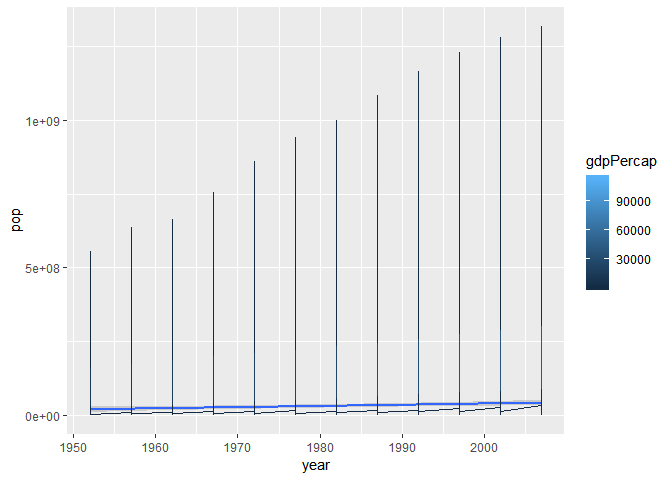
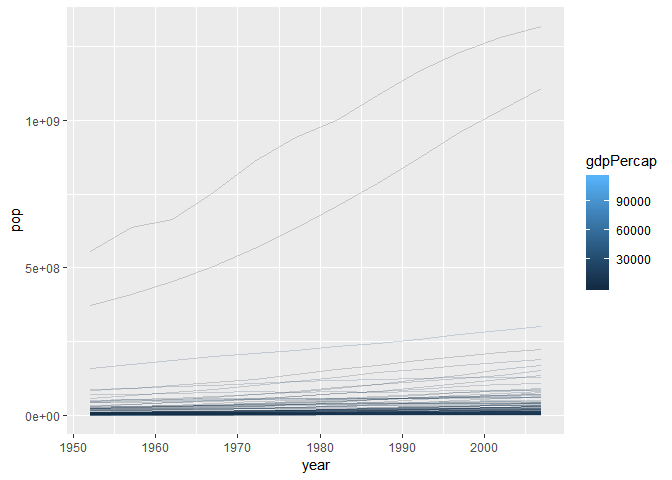
last

diff --git a/cm007/cm007-exercise.md b/cm007/cm007-exercise.md
@@ -369,12 +369,17 @@ ggplot(gapminder, aes(year, lifeExp))+
 
 ``` r
 ggplot(gapminder, aes(year, pop, color=gdpPercap))+
-  geom_smooth()+
-  geom_line()
+  geom_line(aes(group=country),alpha=0.2)
 ```
-
-    ## `geom_smooth()` using method = 'gam' and formula 'y ~ s(x, bs = "cs")'
 
 ![](cm007-exercise_files/figure-markdown_github/unnamed-chunk-23-1.png)
 
 **Exercise 6**: Add points to the plot in Exercise 5.
+
+``` r
+ggplot(gapminder, aes(year, pop, color=gdpPercap))+
+  geom_line(aes(group=country),alpha=0.2)+
+  geom_point()
+```
+
+![](cm007-exercise_files/figure-markdown_github/unnamed-chunk-24-1.png)
